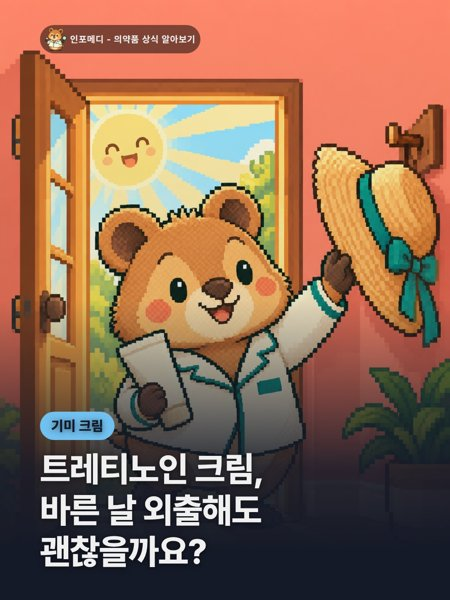
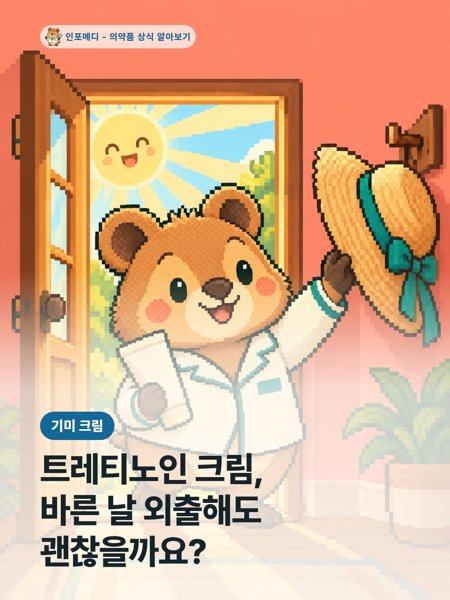
links

diff --git a/index.html b/index.html
@@ -34,7 +34,7 @@
 <section class="section">
 <h2>의약품 정보 <small id="count"></small></h2>
 <div class="grid" id="list">
-<a class="item" href="https://blog.naver.com/info_medi_/224422833363"><img src="c/트레티노인-white.jpg" alt="" loading="lazy">
+<a class="item" href="https://blog.naver.com/info_medi_/224422833363"><img src="c/트레티노인.jpg" alt="" loading="lazy">
 <span><b>트레티노인 크림, 바른 날 외출해도 괜찮을까요?</b><small><time datetime="2026-10-19 17:45"></time></small></span></a>
 <a class="item" href="https://blog.naver.com/info_medi_/224422846228"><img src="c/박테로신연고.jpg" alt="" loading="lazy">
 <span><b>박테로신연고, 어떤 피부에 바르는 연고일까요?</b><small><time datetime="2026-10-19 09:26"></time></small></span></a>
